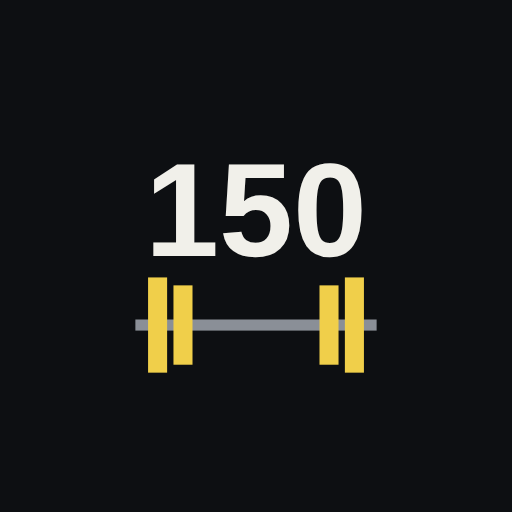
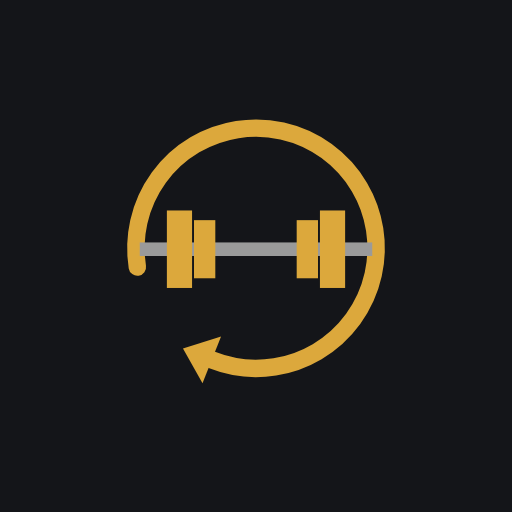
Новое название «Железный цикл», своя цель в жиме, новая иконка
Claude-Session: https://claude.ai/code/session_01WY36WungF8ooC8Rrmfh5BQ

Changed region(s): [[0.25, 0.2188, 0.75, 0.75]]

diff --git a/index.html b/index.html
@@ -1,10 +1,10 @@
 <html lang="ru">
 <meta charset="utf-8">
 <meta name="viewport" content="width=device-width, initial-scale=1, viewport-fit=cover">
-<title>Клуб 150</title>
+<title>Железный цикл</title>
 <meta name="description" content="Программа жима лёжа на 13 недель в телефоне: подходы и веса на сегодня, раскладка блинов, таймер отдыха и расчёт 1ПМ. Работает без интернета.">
 <meta property="og:type" content="website">
-<meta property="og:title" content="Клуб 150 — жим лёжа на 13 недель">
+<meta property="og:title" content="Железный цикл — сила по лёгким, средним и тяжёлым неделям">
 <meta property="og:description" content="Подходы и веса на сегодня, блины на штанге, таймер отдыха и расчёт 1ПМ. Работает без интернета.">
 <meta property="og:url" content="https://glanass1204-web.github.io/club-150/">
 <meta property="og:image" content="https://glanass1204-web.github.io/club-150/docs/screenshot.jpg">
@@ -19,7 +19,7 @@
 <meta name="apple-mobile-web-app-capable" content="yes">
 <meta name="mobile-web-app-capable" content="yes">
 <meta name="apple-mobile-web-app-status-bar-style" content="black-translucent">
-<meta name="apple-mobile-web-app-title" content="Клуб 150">
+<meta name="apple-mobile-web-app-title" content="Железный цикл">
 <link rel="preconnect" href="https://fonts.googleapis.com">
 <link rel="preconnect" href="https://fonts.gstatic.com" crossorigin>
 <link rel="stylesheet" href="https://fonts.googleapis.com/css2?family=Anton&family=Oswald:wght@500;600;700&family=Golos+Text:wght@400;500;600;700&family=JetBrains+Mono:wght@500;700;800&display=swap">
@@ -357,6 +357,7 @@ section.block > h2 { font-size: clamp(30px, 8vw, 44px); }
 .ph.ph-warning:before { content: "\e4e0"; }
 .ph.ph-arrows-clockwise:before { content: "\e094"; }
 .ph.ph-ranking:before { content: "\ed62"; }
+.ph.ph-dots-three-outline:before { content: "\e204"; }
 .ph.ph-barbell:before {
   content: "\e0b6";
 }.ph.ph-crosshair:before {
@@ -690,11 +691,12 @@ html.simple #today .icon-row { display: none !important; }
 .simple-row { display: flex; align-items: center; justify-content: space-between; gap: 12px; margin-top: 14px; padding-top: 14px; border-top: 1px solid var(--line); }
 .simple-row b { display: block; font-size: 15px; }
 .simple-row small { color: var(--muted); font-size: 13px; }
+.goal-edit { margin-left: 8px; font-size: 11px; color: var(--muted); letter-spacing: .08em; }
 </style>
 
 <header class="appbar">
   <div class="wrap appbar-top">
-    <div class="brand">Клуб <b>150</b></div>
+    <div class="brand">Железный <b>цикл</b></div>
     <div class="bar-actions"><button class="maxchip prof-btn" type="button" id="prof-btn"><i class="ph ph-user-circle" aria-hidden="true"></i> <b id="prof-name">Я</b></button><button class="install" type="button" id="install" hidden>Установить</button><a class="maxchip" href="#maxes">1ПМ <b id="chip-max">111</b></a></div>
   </div>
   <nav class="wrap rail" id="rail" aria-label="Недели"></nav>
@@ -702,11 +704,11 @@ html.simple #today .icon-row { display: none !important; }
 
 <main>
   <div class="wrap prog-switch" role="tablist" aria-label="Программа">
-    <button type="button" role="tab" data-prog="club" id="prog-club">Клуб 150<small>жим лёжа · 13 недель</small></button>
+    <button type="button" role="tab" data-prog="club" id="prog-club">Железный цикл<small>сила по волнам · 13 недель</small></button>
     <button type="button" role="tab" data-prog="sr" id="prog-sr">Сила и рельеф<small>5/3/1 + сушка · 12 недель</small></button>
   </div>
 <div class="wrap tab-title t-stats">Твой <span>прогресс</span></div>
-<div class="wrap tab-title t-club">Клуб <span>150</span></div>
+<div class="wrap tab-title t-club">Ещё <span>настройки</span></div>
   <section class="wrap today" id="today"></section>
   <section class="wrap block" id="signals" hidden></section>
   <section class="wrap" id="progress"></section>
@@ -808,6 +810,7 @@ html.simple #today .icon-row { display: none !important; }
       <div class="field"><label for="max-bench">Жим лёжа, 1ПМ, кг</label><input id="max-bench" inputmode="numeric" type="number" min="0" step="1"></div>
       <div class="field"><label for="max-squat">Присед, 1ПМ, кг</label><input id="max-squat" inputmode="numeric" type="number" min="0" step="1"></div>
       <div class="field"><label for="max-dead">Становая, 1ПМ, кг</label><input id="max-dead" inputmode="numeric" type="number" min="0" step="1"></div>
+      <div class="field"><label for="goal-in">Цель в жиме, кг</label><input id="goal-in" inputmode="numeric" type="number" min="20" max="400" step="5"></div>
     </div>
     <p class="hint" id="example-note">Сейчас стоят примерные значения<span class="flag">пример</span>. Введи свои в начале программы и не меняй до конца цикла.</p>
     <div class="calc">
@@ -897,7 +900,7 @@ html.simple #today .icon-row { display: none !important; }
     <ol><li>Порадоваться</li><li>Отметить</li><li>Найти новый максимум и начать заново</li></ol>
     <p>И пусть ваш путь будет прямиком к звёздам.</p>
     <p><a href="about.html">О программе — страница, которой можно поделиться</a></p>
-    <div class="brand-foot"><b>КЛУБ 150</b><span>Куй свою силу</span></div>
+    <div class="brand-foot"><b>ЖЕЛЕЗНЫЙ ЦИКЛ</b><span>Куй свою силу</span></div>
   </section>
 </main>
 
@@ -906,7 +909,7 @@ html.simple #today .icon-row { display: none !important; }
     <button type="button" data-tabgo="today"><i class="ph ph-barbell" aria-hidden="true"></i>Сегодня</button>
     <button type="button" data-tabgo="week"><i class="ph ph-calendar-check" aria-hidden="true"></i>Неделя</button>
     <button type="button" data-tabgo="stats"><i class="ph ph-chart-line-up" aria-hidden="true"></i>Прогресс</button>
-    <button type="button" data-tabgo="club"><i class="ph ph-crown" aria-hidden="true"></i>Клуб</button>
+    <button type="button" data-tabgo="club"><i class="ph ph-dots-three-outline" aria-hidden="true"></i>Ещё</button>
   </div>
 </nav>
 <div id="sheet-root"></div>
@@ -1009,7 +1012,7 @@ html.simple #today .icon-row { display: none !important; }
       [ad(b(DL, D, '55x5x3')), ss(k(LAT, '15x3'), k(ROW, '15x3')), k(CURL, '15x4'), k(HAM, '8x5'), k(WRIST, '15x4')],
       [or(b(SQ, S, '70x5x4'), k(LEGEXT, '30x3')), b(SLDL, D, '50x8x3', 'Ноги чуть согнуты, гриф скользит по бёдрам, таз назад — работает задняя поверхность бедра.'), delts(), k(ABS, '30x3'), { t: 'x', n: 'Медитация в зале', note: 'Это тренировка духа. Тренировка воли. Через несколько дней — проверка максимума.' }]
     ]},
-    { motto: 'Добро пожаловать в Клуб 150 кг!', days: [
+    { motto: 'Добро пожаловать в Железный цикл!', days: [
       [b(BENCH, P, '50x6x1; 60x5x1; 70x3x1; 80x2x1; 90x1x1; 100x1x1; 102x1x1', 'И так до потолка: жмём на 1 раз, увеличивая вес.')]
     ]}
   ];
@@ -1263,7 +1266,7 @@ html.simple #today .icon-row { display: none !important; }
     // Profiles: the first athlete keeps the plain keys, others get "p…:" prefixes. Plates are shared by everyone in the gym.
     k: function (key) {
       if (key === 'plates' || key === 'profiles' || key === 'profile') return 'club150:' + key;
-      return 'club150:' + (PROFILE !== 'main' ? PROFILE + ':' : '') + (CYCLE > 1 && CYC_KEYS[key] ? 'c' + CYCLE + ':' : '') + key + (PROG === 'sr' && ['maxes', 'photo', 'prog', 'body'].indexOf(key) < 0 ? '@sr' : '');
+      return 'club150:' + (PROFILE !== 'main' ? PROFILE + ':' : '') + (CYCLE > 1 && CYC_KEYS[key] ? 'c' + CYCLE + ':' : '') + key + (PROG === 'sr' && ['maxes', 'photo', 'prog', 'body', 'goal'].indexOf(key) < 0 ? '@sr' : '');
     },
     get: function (key, fb) { try { var v = localStorage.getItem(store.k(key)); return v === null ? fb : JSON.parse(v); } catch (e) { return fb; } },
     set: function (key, val) { try { localStorage.setItem(store.k(key), JSON.stringify(val)); } catch (e) {} }
@@ -1329,9 +1332,9 @@ html.simple #today .icon-row { display: none !important; }
       '<p class="hint">Недели 1–' + FREE_WEEKS + ' бесплатные. Полная версия открывает все ' + NW + ' недель, обе программы и проверку максимума.</p>' + codeFormHtml() + '</div>';
   }
   function shareLink() {
-    var url = BOT_LINK || location.origin + location.pathname, text = 'Клуб 150 — программа на жим 150 кг. Первые 2 недели бесплатно:';
+    var url = BOT_LINK || location.origin + location.pathname, text = 'Железный цикл — программа на силу: лёгкие, средние и тяжёлые недели. Первые 2 недели бесплатно:';
     if (TG && TG.openTelegramLink) { TG.openTelegramLink('https://t.me/share/url?url=' + encodeURIComponent(url) + '&text=' + encodeURIComponent(text)); return; }
-    if (navigator.share) navigator.share({ title: 'Клуб 150', text: text, url: url }).catch(function () {});
+    if (navigator.share) navigator.share({ title: 'Железный цикл', text: text, url: url }).catch(function () {});
     else if (navigator.clipboard) navigator.clipboard.writeText(text + ' ' + url).then(function () { var m = document.querySelector('#license .share-msg'); if (m) m.textContent = 'Ссылка скопирована — отправь её в мессенджер.'; });
   }
   function renderLicense() {
@@ -1800,8 +1803,10 @@ html.simple #today .icon-row { display: none !important; }
     return Object.keys(pts).map(Number).sort(function (a, b) { return a - b; }).map(function (w) { return { w: w, v: pts[w] }; });
   }
   function bestBench() { var pts = benchSeries(), b2 = +maxes.bench || 0; pts.forEach(function (p) { if (p.v > b2) b2 = p.v; }); return b2; }
+  function defaultGoal() { return Math.ceil(((+maxes.bench || 100) + 20) / 5) * 5; }
+  function GOAL() { return +store.get('goal', 0) || defaultGoal(); }
   function goalHtml() {
-    var best = bestBench(), left = Math.max(0, 150 - best), pct = Math.min(100, Math.round(best / 150 * 100));
+    var G = GOAL(), best = bestBench(), left = Math.max(0, G - best), pct = Math.min(100, Math.round(best / G * 100));
     // Badges for weights count only what was lifted in the programme, not the starting max.
     var rec = benchSeries().reduce(function (m, p) { return Math.max(m, p.v); }, 0);
     var workouts = Object.keys(dates).length, weeksDone = 0;
@@ -1812,9 +1817,9 @@ html.simple #today .icon-row { display: none !important; }
       ['ph-fire', '10 тренировок', workouts >= 10],
       ['ph-trophy', 'Новый рекорд', best > (+maxes.bench || 0)],
       ['ph-medal', '100 кг в жиме', rec >= 100],
-      ['ph-crown', 'Клуб 150', rec >= 150]
+      ['ph-crown', 'Цель взята', rec >= G]
     ];
-    return '<div class="goal"><div class="goal-row"><span class="rule-title" style="justify-content:flex-start">Цель · 150 кг</span><b>' + (left ? 'осталось ' + left + ' кг' : 'Добро пожаловать в клуб!') + '</b></div>' +
+    return '<div class="goal"><div class="goal-row"><span class="rule-title" style="justify-content:flex-start">Цель · ' + G + ' кг <a href="#maxes" class="goal-edit">изменить</a></span><b>' + (left ? 'осталось ' + left + ' кг' : 'Цель взята! Поставь новую') + '</b></div>' +
       '<div class="goal-bar"><i style="width:' + pct + '%"></i><span style="left:' + pct + '%">' + best + '</span></div>' +
       '<div class="goal-meta"><span>Тренировок: <b>' + workouts + '</b></span><span>Недель закрыто: <b>' + weeksDone + ' из ' + NW + '</b></span></div>' +
       '<div class="badges">' + badges.map(function (b3) { return '<span class="badge' + (b3[2] ? ' on' : '') + '"><i class="ph ' + b3[0] + '" aria-hidden="true"></i>' + b3[1] + '</span>'; }).join('') + '</div></div>';
@@ -2520,7 +2525,7 @@ html.simple #today .icon-row { display: none !important; }
       var n2 = new Date(), stamp = n2.getUTCFullYear() + p2(n2.getUTCMonth() + 1) + p2(n2.getUTCDate()) + 'T' + p2(n2.getUTCHours()) + p2(n2.getUTCMinutes()) + p2(n2.getUTCSeconds()) + 'Z';
       var url = location.origin + location.pathname;
       var ics = ['BEGIN:VCALENDAR', 'VERSION:2.0', 'PRODID:-//Club 150//RU', 'CALSCALE:GREGORIAN', 'BEGIN:VEVENT', 'UID:club150-' + Date.now() + '@club150', 'DTSTAMP:' + stamp, 'DTSTART:' + loc(first), 'DURATION:PT1H15M',
-        'RRULE:FREQ=WEEKLY;BYDAY=' + rm.days.join(',') + ';COUNT=' + rm.days.length * NW, 'SUMMARY:Клуб 150 — тренировка', 'DESCRIPTION:Открой приложение и нажми «Начать в зале»: ' + url, 'URL:' + url,
+        'RRULE:FREQ=WEEKLY;BYDAY=' + rm.days.join(',') + ';COUNT=' + rm.days.length * NW, 'SUMMARY:Железный цикл — тренировка', 'DESCRIPTION:Открой приложение и нажми «Начать в зале»: ' + url, 'URL:' + url,
         'BEGIN:VALARM', 'TRIGGER:-PT30M', 'ACTION:DISPLAY', 'DESCRIPTION:Тренировка через 30 минут', 'END:VALARM', 'END:VEVENT', 'END:VCALENDAR'].join('\r\n');
       var a = document.createElement('a'); a.href = URL.createObjectURL(new Blob([ics], { type: 'text/calendar' })); a.download = 'club150.ics'; document.body.appendChild(a); a.click(); a.remove();
       $('remind-msg').textContent = 'Файл календаря скачан. Открой его — тренировки добавятся с напоминанием за 30 минут.';
@@ -2531,7 +2536,7 @@ html.simple #today .icon-row { display: none !important; }
   function shareCard(o) {
     var W = 1080, H = 1920, c = document.createElement('canvas'); c.width = W; c.height = H;
     var x = c.getContext('2d'), gold = '#dca83c', fg = '#f4f1ea', mut = '#b5afa3';
-    var sample = (o.t1 + o.t2 + o.kicker + 'КЛУБ ЦЕЛЬ ОСТАЛОСЬ КГ 0123456789,т').toUpperCase() + o.stats.map(function (q) { return q[0] + q[1]; }).join('');
+    var sample = (o.t1 + o.t2 + o.kicker + 'ЖЕЛЕЗНЫЙ ЦИКЛ ЦЕЛЬ ОСТАЛОСЬ КГ 0123456789,т').toUpperCase() + o.stats.map(function (q) { return q[0] + q[1]; }).join('');
     var fonts = ['120px Anton', '600 60px Oswald', '700 60px Oswald', '500 40px "Golos Text"', '700 60px "JetBrains Mono"'];
     function fit(txt, font, size, maxW) { do { x.font = font.replace('#', size); size -= 4; } while (x.measureText(txt).width > maxW && size > 40); }
     Promise.all(fonts.map(function (f) { return document.fonts ? document.fonts.load(f, sample).catch(function () {}) : null; })).then(function () { return document.fonts && document.fonts.ready; }).then(function () {
@@ -2539,7 +2544,7 @@ html.simple #today .icon-row { display: none !important; }
       var gr = x.createRadialGradient(W * 0.8, 260, 40, W * 0.8, 260, 900); gr.addColorStop(0, 'rgba(220,168,60,.28)'); gr.addColorStop(1, 'rgba(220,168,60,0)'); x.fillStyle = gr; x.fillRect(0, 0, W, H);
       x.fillStyle = gold; x.fillRect(90, 150, 120, 10);
       x.font = '600 52px Oswald, Impact, sans-serif'; x.fillStyle = fg; x.textBaseline = 'alphabetic';
-      x.fillText('КЛУБ', 90, 250); var lw = x.measureText('КЛУБ ').width; x.fillStyle = gold; x.fillText('150', 90 + lw, 250);
+      x.fillText('ЖЕЛЕЗНЫЙ', 90, 250); var lw = x.measureText('ЖЕЛЕЗНЫЙ ').width; x.fillStyle = gold; x.fillText('ЦИКЛ', 90 + lw, 250);
       x.font = '600 44px Oswald, Impact, sans-serif'; x.fillStyle = mut; x.fillText(o.kicker.toUpperCase(), 90, 420);
       var T1 = o.t1.toUpperCase(), T2 = o.t2.toUpperCase();
       fit(T1.length > T2.length ? T1 : T2, '700 #px Anton, Oswald, Impact, sans-serif', 300, W - 170);
@@ -2552,9 +2557,9 @@ html.simple #today .icon-row { display: none !important; }
         x.font = '500 38px "Golos Text", sans-serif'; x.fillStyle = mut; x.fillText(s[1], sx, sy + 50);
       });
       if (o.goal) {
-        var gy = 1640; x.font = '600 40px Oswald, Impact, sans-serif'; x.fillStyle = fg; x.fillText('ЦЕЛЬ 150 КГ', 90, gy);
-        x.fillStyle = gold; var rt = 'ОСТАЛОСЬ ' + Math.max(0, 150 - o.goal) + ' КГ'; x.fillText(rt, W - 90 - x.measureText(rt).width, gy);
-        x.fillStyle = '#1f1e1c'; x.fillRect(90, gy + 30, W - 180, 22); x.fillStyle = gold; x.fillRect(90, gy + 30, (W - 180) * Math.min(1, o.goal / 150), 22);
+        var gy = 1640; x.font = '600 40px Oswald, Impact, sans-serif'; x.fillStyle = fg; x.fillText('ЦЕЛЬ ' + GOAL() + ' КГ', 90, gy);
+        x.fillStyle = gold; var rt = 'ОСТАЛОСЬ ' + Math.max(0, GOAL() - o.goal) + ' КГ'; x.fillText(rt, W - 90 - x.measureText(rt).width, gy);
+        x.fillStyle = '#1f1e1c'; x.fillRect(90, gy + 30, W - 180, 22); x.fillStyle = gold; x.fillRect(90, gy + 30, (W - 180) * Math.min(1, o.goal / GOAL()), 22);
       }
       x.font = '500 34px "Golos Text", sans-serif'; x.fillStyle = mut; x.fillText('glanass1204-web.github.io/club-150', 90, H - 90);
       c.toBlob(function (blob) { if (blob) showShare(blob, o.file); }, 'image/png');
@@ -2565,7 +2570,7 @@ html.simple #today .icon-row { display: none !important; }
     try { file = new File([blob], name, { type: 'image/png' }); can = !!(navigator.canShare && navigator.canShare({ files: [file] })); } catch (er) {}
     $('sheet-root').innerHTML = '<div class="scrim" data-close></div><div class="sheet share-sheet" role="dialog" aria-label="Поделиться"><div class="grab"></div><img class="share-img" src="' + url + '" alt="Карточка с итогами для сторис" width="1080" height="1920">' +
       (can ? '<button class="btn primary" type="button" id="share-go">Поделиться</button>' : '') + '<a class="btn' + (can ? '' : ' primary') + '" href="' + url + '" download="' + name + '">Сохранить картинку</a><button class="btn" type="button" data-close>Закрыть</button></div>';
-    var sg = $('share-go'); if (sg) sg.addEventListener('click', function () { navigator.share({ files: [file], title: 'Клуб 150' }).catch(function () {}); });
+    var sg = $('share-go'); if (sg) sg.addEventListener('click', function () { navigator.share({ files: [file], title: 'Железный цикл' }).catch(function () {}); });
   }
   function weekTon(wk) { var t = 0; WEEKS[wk - 1].days.forEach(function (d, di) { t += dayTonnage(wk, di); }); return t; }
   function shareWeek(wk) {
@@ -2586,7 +2591,7 @@ html.simple #today .icon-row { display: none !important; }
   function openOnb(step) {
     var dots = '<div class="onb-dots" aria-hidden="true">' + [0, 1, 2].map(function (i) { return '<i' + (i === step ? ' class="on"' : '') + '></i>'; }).join('') + '</div>';
     var h;
-    if (step === 0) h = '<div class="onb-hero"><div class="onb-logo">Клуб <span>150</span></div><h2 id="onb-title">Путь к жиму<br><span>150 кг</span></h2><p>13 недель программы, потом новый максимум и следующий круг.</p><ul><li><i class="ph ph-barbell" aria-hidden="true"></i>Точные веса на каждый подход</li><li><i class="ph ph-play-circle" aria-hidden="true"></i>Режим зала: подход, отдых, следующий</li><li><i class="ph ph-chart-line-up" aria-hidden="true"></i>Рекорды и графики роста</li></ul></div><button class="btn primary" type="button" data-onb="1">Начать</button>';
+    if (step === 0) h = '<div class="onb-hero"><div class="onb-logo">Железный <span>цикл</span></div><h2 id="onb-title">Сила<br><span>по волнам</span></h2><p>13 недель: лёгкие, средние и тяжёлые недели. Потом новый максимум и следующий цикл.</p><ul><li><i class="ph ph-barbell" aria-hidden="true"></i>Точные веса на каждый подход</li><li><i class="ph ph-play-circle" aria-hidden="true"></i>Режим зала: подход, отдых, следующий</li><li><i class="ph ph-chart-line-up" aria-hidden="true"></i>Рекорды и графики роста</li></ul></div><button class="btn primary" type="button" data-onb="1">Начать</button>';
     else if (step === 1) h = '<div class="onb-hero"><h2 id="onb-title">Твой <span>максимум</span></h2><p>Вес, который ты поднимешь один раз. От него программа считает все подходы.</p>' +
       '<div class="field"><label for="onb-bench">Жим лёжа, кг</label><input id="onb-bench" type="number" inputmode="numeric" min="20" max="400" placeholder="например 110"></div>' +
       '<details class="onb-calc"><summary>Не знаю свой максимум</summary><p>Введи вес и сколько раз ты его выжимаешь — посчитаю.</p><div class="onb-row"><div class="field"><label for="onb-w">Вес, кг</label><input id="onb-w" type="number" inputmode="numeric" min="20"></div><div class="field"><label for="onb-r">Повторов</label><input id="onb-r" type="number" inputmode="numeric" min="1" max="12"></div></div><p class="onb-est" id="onb-est" aria-live="polite"></p></details>' +
@@ -2683,7 +2688,7 @@ html.simple #today .icon-row { display: none !important; }
     var steps = isIOS
       ? '<h3>Установить на iPhone</h3><ol class="ios-steps"><li>Открой эту страницу в <b>Safari</b>.</li><li>Нажми «Поделиться» — квадрат со стрелкой вверх.</li><li>Выбери «На экран „Домой“» и нажми «Добавить».</li></ol>'
       : '<h3>Установить на Android</h3><ol class="ios-steps"><li>Открой ссылку в <b>Chrome</b>: если страница открыта внутри другого приложения (Claude, Telegram, ВК), нажми ⋮ → «Открыть в браузере».</li><li>В Chrome: ⋮ → <b>«Установить приложение»</b> или <b>«Добавить на главный экран»</b>.</li><li>Яндекс Браузер: ⋮ → «Добавить ярлык». Samsung Internet: ≡ → «Добавить страницу на» → «Главный экран».</li></ol>';
-    $('sheet-root').innerHTML = '<div class="scrim" data-close></div><div class="sheet" role="dialog" aria-label="Установка"><div class="grab"></div>' + steps + '<p class="hint">Иконка «Клуб 150» появится на рабочем столе, программа будет открываться без браузера и работать без интернета.</p><button class="btn" type="button" data-close>Понятно</button></div>';
+    $('sheet-root').innerHTML = '<div class="scrim" data-close></div><div class="sheet" role="dialog" aria-label="Установка"><div class="grab"></div>' + steps + '<p class="hint">Иконка «Железный цикл» появится на рабочем столе, программа будет открываться без браузера и работать без интернета.</p><button class="btn" type="button" data-close>Понятно</button></div>';
   });
   function netState() { $('offline').hidden = navigator.onLine !== false; }
   window.addEventListener('online', netState); window.addEventListener('offline', netState); netState();
@@ -2751,7 +2756,7 @@ html.simple #today .icon-row { display: none !important; }
         Object.keys(j.data).forEach(function (k3) { if (k3.indexOf('club150:') === 0) localStorage.setItem(k3, j.data[k3]); });
         $('backup-msg').textContent = 'Копия от ' + (j.saved || '').slice(0, 10) + ' загружена. Перезапускаю…';
         setTimeout(function () { location.reload(); }, 900);
-      } catch (er) { $('backup-msg').textContent = 'Это не файл копии «Клуба 150». Выбери файл club150-….json.'; }
+      } catch (er) { $('backup-msg').textContent = 'Это не файл копии «Железного цикла». Выбери файл club150-….json.'; }
     };
     rd.readAsText(file);
   });
@@ -2873,7 +2878,7 @@ html.simple #today .icon-row { display: none !important; }
         '<div class="lvl-ticks">' + lv.slice(2).map(function (x) { return '<span style="left:' + (x[0] / top * 100).toFixed(1) + '%">' + fmtN(x[0]) + '×</span>'; }).join('') + '</div>' +
         '<small>' + (nxt ? 'До уровня «' + nxt[1] + '»: +' + Math.ceil(nxt[0] * bw - v) + ' кг (' + Math.ceil(nxt[0] * bw) + ' кг)' : 'Высший уровень — ты в элите.') + '</small></div>';
     });
-    h += '<p class="hint">Цель клуба — 150 кг в жиме: при весе ' + fmtN(bw) + ' кг это <b>' + fmtN(Math.round(150 / bw * 100) / 100) + '×</b> веса тела. Ориентир для мужчин по таблицам силовых стандартов: средний уровень — жим 1×, присед 1,25×, становая 1,5× веса.</p></div>';
+    h += '<p class="hint">Твоя цель — ' + GOAL() + ' кг в жиме: при весе ' + fmtN(bw) + ' кг это <b>' + fmtN(Math.round(GOAL() / bw * 100) / 100) + '×</b> веса тела. Ориентир для мужчин по таблицам силовых стандартов: средний уровень — жим 1×, присед 1,25×, становая 1,5× веса.</p></div>';
     $('level').innerHTML = h;
   }
 
@@ -2940,6 +2945,18 @@ html.simple #today .icon-row { display: none !important; }
     ex.classList.toggle('more-open', open); mb.textContent = open ? 'Скрыть' : 'Подробнее';
   });
   paintSimple();
+
+  // ---------- personal goal ----------
+  (function () {
+    var gi = $('goal-in'); if (!gi) return;
+    function paintGoal() { var g = +store.get('goal', 0); gi.value = g || ''; gi.placeholder = String(defaultGoal()); }
+    gi.addEventListener('change', function () {
+      var v = Math.round(+gi.value);
+      if (v >= 20 && v <= 400) store.set('goal', v); else { try { localStorage.removeItem(store.k('goal')); } catch (er) {} }
+      paintGoal(); renderProgress();
+    });
+    paintGoal();
+  })();
   renderLicense();
   renderAll(); renderBody();
   prBest = bestBench();

diff --git a/sw.js b/sw.js
@@ -1,5 +1,5 @@
 // Offline support for Club 150. Bump VERSION on every release so phones pick up the new page.
-var VERSION = 'club150-v43';
+var VERSION = 'club150-v44';
 var CORE = ['./', './index.html', './manifest.webmanifest', './icon-192.png', './icon-512.png', './icon-512-maskable.png', './icon-180.png', './fonts/Phosphor.woff2'];
 var PHOTOS = ['./img/arnold.jpg', './img/haney.jpg', './img/yates.png', './img/coleman.jpg', './img/cutler.jpg', './img/heath.jpg', './img/zane.jpg', './img/jackson.jpg', './img/rhoden.jpg', './img/levrone.jpg', './img/wheeler.jpg', './img/bigramy.jpg', './img/choopan.jpg', './img/lunsford.jpg', './img/bumstead.jpg', './img/ferrigno.jpg', './img/maddox.jpg', './img/kazmaier.jpg', './img/malanichev.jpg', './img/pudzianowski.jpg', './img/savickas.jpg', './img/shaw.jpg', './img/hall.jpg', './img/bjornsson.jpg', './img/vlasov.jpg', './img/alekseyev.jpg'];
 
